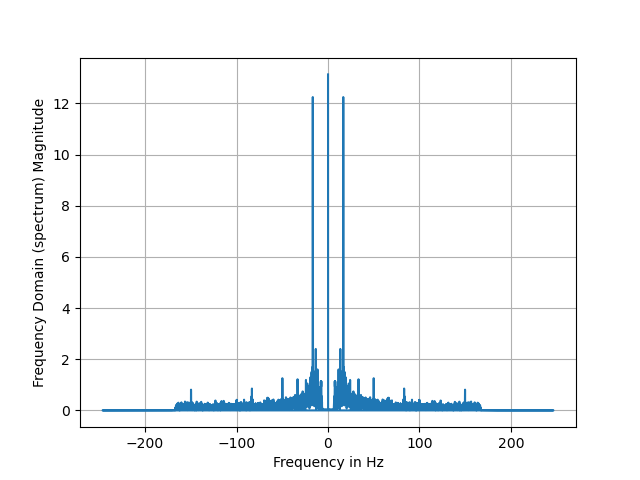
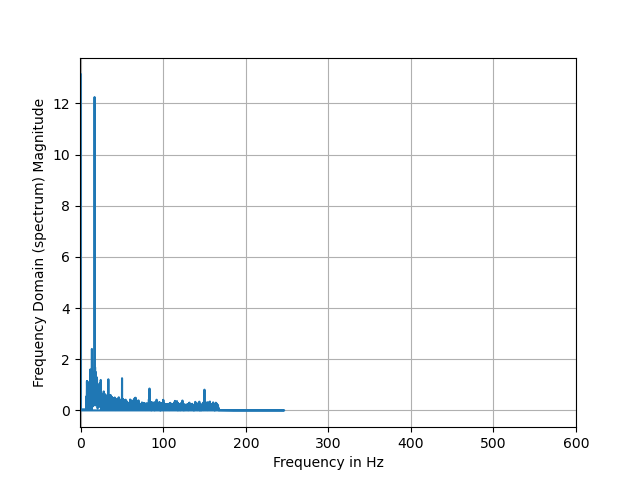
ProgramMaudibuat

diff --git a/FunctionOnlyone.py b/FunctionOnlyone.py
@@ -292,7 +292,7 @@ def plotData20(data1, data2, time, j, name, ke):
 j = []
 k = []
 
-def plotData2(data1, data2, time, name, ke):
+def plotData2ADC(data1, data2, time, name, ke, show=False, save=False):
     saveto = str("./image/"+name+ke+".png")
     name1 = "Hasil akusisi " + name + " percobaan ke-" + ke
     o = [0, len(data1)/3, (len(data1)*2)/3, len(data1)]
@@ -319,8 +319,10 @@ def plotData2(data1, data2, time, name, ke):
     plt.grid()
     plt.xlabel("Waktu (s)")
     plt.xticks(o1, oi)
-    plt.savefig(saveto)
-    plt.show()
+    if save == True:
+        plt.savefig(saveto)
+    if show ==True:
+        plt.show()
     plt.close
     j.append(freq)
     k.append(freq2)
@@ -390,7 +392,6 @@ def plotData3(data1, data2, data3, time, name, ke):
     plt.savefig(saveto)
     plt.show()
     plt.close
-
 
 def plotFigure2(a, b, c,d,e,f,FullA, FullB, time, ke, name):
     name = "./data/" + name +  ke + ".png"
@@ -476,11 +477,6 @@ def plotFigure(self, a, b, c,d,e,f,FullA, FullB, time):
     axs[2,1].plot(f, 'tab:blue')
     axs[3,0].plot(FullA)
     axs[4,0].plot(FullB)
-
-
-
-
-
 def accusition(self, time):
     a = []
     print("mengambil data dalam 5 detik...")
@@ -580,7 +576,7 @@ def RMS(a, ws):
     return(rms)
 
 def bandpass_firwin(ntaps, lowcut, highcut, fs, window='hamming'):
-    nyq = 0.5 * fs
+    nyq =  0.5 * fs
     taps = firwin(ntaps, [lowcut, highcut], nyq=nyq, pass_zero=False,
                   window=window)
     return taps
@@ -608,32 +604,40 @@ def showResponFilter(taps, lowcut, highcut,fs):
     plt.show()
     plt.close()
 
-def signalProcessingButter (signal, t, lowcut,highcut,ws, NilaiRMS, order):
+def signalProcessingFirwin (signal, t, lowcut,highcut,ws, NilaiRMS = 500, process = False , show=False, save=False, RMS = True):
     fs = len(signal)/t
-    signal = bandpass_firwin_filter(data = signal, ntaps=1200, lowcut=lowcut, highcut=highcut,fs= int(len(signal)/t))
-    # print(signal)
-    print("filtering..")
+    if process == True :
+        print("filtering..")
+    signal = bandpass_firwin_filter(data = signal, ntaps=1300, lowcut=lowcut, highcut=highcut,fs= int(len(signal)/t))
+    if process == True : 
+        print("Recrificationing...")
     signal = recrification(signal)
-    print("Recrificationing...")
+    if process == True :
+        print("Moving avareging...")
     signal = movingAvarage(signal, ws)
-    print("Moving avareging...")
-    signal = RMS(signal, NilaiRMS)
-    print("Processing RMS...")
+    if RMS == True:
+        if process == True :
+            print("Processing RMS...")
+        signal = RMS(signal, NilaiRMS)
     return signal
 
-def fastFourierTransform(signal, time, name="TEST"):
+def fastFourierTransform(signal, time, name="TEST", plot=True, save=True):
     fs = len(signal)/time
     Signal = fftpack.fft(signal)
     freqs = fftpack.fftfreq(len(signal))*fs
-    fig, ax = plt.subplots()
-    plt.plot(freqs, abs(Signal))
-    plt.xlabel('Frequency in Hz')
-    plt.ylabel('Frequency Domain (spectrum) Magnitude')
-    plt.grid(True)
-    n = str("./image/"+ str(name) +"FFT")
-    plt.savefig(n)
-    plt.show()
-    plt.close()
+    if plot == True:
+        fig, ax = plt.subplots()
+        plt.plot(freqs, abs(Signal))
+        plt.xlabel('Frequency in Hz')
+        plt.xlim(-1, 520)
+        plt.ylabel('Frequency Domain (spectrum) Magnitude')
+        plt.grid(True)
+        n = str("./image/"+ str(name) +"FFT")
+        plt.savefig(n)
+        if save == True:
+            plt.show()
+        plt.close()
+    return Signal, freqs
 
     
 def welchFunction(data, time):
@@ -646,6 +650,121 @@ def welchFunction(data, time):
     plt.show()
     plt.close()
 
+def ReadFile(dataName, ADC = True):
+    path = str("./data/" + dataName + ".txt")
+    with open(path) as f:
+        content =f.readlines()
+    i = 0
+    c = []
+    d = []
+    while i < len(content):
+        a,b = content[i].split(',')
+        if ADC == True:
+            a = (5*float(a))/1024
+            b = (5*float(b.strip()))/1024
+        if ADC == False:
+            a = float(a)
+            b = float(b.strip())
+        c.append(a)
+        d.append(b)
+        i = i + 1
+    return c,d 
 
+def GetInfo(name1, j, time, name="TEST", ke=""):
+    Ap = []
+    Bp = []
+    At = []
+    Bt = []
+    Ai = []
+    Bi = []
+    Pa = []
+    Pb = []
+    k = 1
+    for i in range(j):
+        name = str(name1 + str(k))
+        print("Processing Data.. ", name)
+        a,b = ReadFile(name)
+        a = bandpass_firwin_filter(a, 1400, 20, 500, len(a)/time)
+        b = bandpass_firwin_filter(b, 1400, 20, 500, len(b)/time)
+        peak1 = max(ai)
+        peak2 = max(bi)
+        peakt1 = (ai.index(max(ai))/len(ai))*time
+        peakt2 = (bi.index(max(bi))/len(bi))*time
+        ave1 = ave(ai)
+        ave2 = ave(bi)
+        P1 = sum(ai[int(len(ai)/3):int(len(ai)*2/3)])
+        P2 = sum(bi[int(len(bi)/3):int(len(bi)*2/3)])
+        Pa.append(P1)
+        Pb.append(P2)
+        Ap.append(peak1)
+        Bp.append(peak2)
+        At.append(peakt1)
+        Bt.append(peakt2)
+        Ai.append(ave1)
+        Bi.append(ave2)
+        k = k + 1 
+        i = i + 1
+    createFile2(Ai,Bi, str("RataRataData" + str(name)), ke)
+    createFile2(Ap,Bp, str("PeakValueData" + str(name)), ke)
+    createFile2(At, Bt, str("WaktuPeakData" + str(name)), ke)
+    createFile2(Pa, Pb, str("LuasData"+ str(name)), ke)
+    print("Rata Rata data A : ", Ai)
+    print("Rata Rata data B : ", Bi)
+    print("Peak Data A : ", Ap)
+    print("Peak Data B : ", Bp)
+    print("Time Peak Data A : ", At)
+    print("Time Peak Data B : ", Bt)
+    print("Luas Data A : ", Pa)
+    print("Luas Data B : ", Pb)
 
+def plotData2LAST(data1, data2, time, name="TestLAST", ke="", show=False, save=False):
+    saveto = str("./image/"+name+ke+".png")
+    o = [0, len(data1)/3, (len(data1)*2)/3, len(data1)]
+    o1 = [0, len(data2)/3, (len(data2)*2)/3, len(data2)]
+    oi =["0", str(time/3), str((time*2)/3), str(time)]
+    peak = []
+    ave1 = FunctionOnlyone.ave(data1)
+    ave2 = FunctionOnlyone.ave(data2)
+    i = 0
+    P = []
+    while i<len(data1):
+        P.append(i)
+        i=i+1
+    ket1 = str("Waktu(s)\nRata-rata : " + str(ave1) )
+    ket2 = str("Waktu(s)\nRata-rata : " + str(ave2) )
+    grid = plt.GridSpec(2, 1, wspace=0.2, hspace=0.7, left=0.09, bottom=0.12, right=0.95, top=0.88)
+    plt.figure(figsize=(18,6))
+    plt.subplot(grid[0,0])
+    plt.plot(data1)
+    P = np.array(P)
+    plt.fill_between(P[int(len(P)/3):int(len(P)*2/3)], data1[int(len(P)/3):int(len(P)*2/3)], 0,color='aqua')
+    plt.plot(data1.index(max(data1[int(len(data1)/3):int(len(data1)*2/3)])), max(data1[int(len(data1)/3):int(len(data1)*2/3)]), 'x', color='red', linewidth=2)
+    plt.title("Tangan Kanan")
+    plt.ylabel("Volt")
+    plt.grid()
+    plt.ylim(0,0.0025)
+    plt.xlabel(ket1)
+    plt.xticks(o, oi)
+    plt.subplot(grid[1,0])
+    plt.plot(data2)
+    plt.plot(data2.index(max(data2[int(len(data2)/3):int(len(data2)*2/3)])), max(data2[int(len(data2)/3):int(len(data2)*2/3)]), 'x', color='red', linewidth=2)
+    plt.fill_between(P[int(len(P)/3):int(len(P)*2/3)], data2[int(len(P)/3):int(len(P)*2/3)], 0,color='aqua')
+    plt.title("Tangan Kiri")
+    plt.ylabel("Volt")
+    plt.ylim(0,0.0025)
+    plt.xlabel(ket2)
+    plt.grid()
+    plt.xticks(o1, oi)
+    if save == True:
+        plt.savefig(saveto)
+    if show == True:
+        plt.show()
+    plt.close
+    return (saveto)
 
+def programPPT23Juli2020():
+    """
+    Program untuk memproduksi kembali data data setelah dilakukan perubahan 
+    
+
+    """

diff --git a/ProcessingSignal.py b/ProcessingSignal.py
@@ -96,7 +96,7 @@ def plotData2(data1, data2, time, name, ke):
     plt.xlabel(ket2)
     plt.grid()
     plt.xticks(o1, oi)
-    # plt.savefig(saveto)
+    plt.savefig(saveto)
     plt.show()
     # plt.close
     return (saveto)
@@ -134,19 +134,16 @@ def signalProcessing(signal,t, lowcut, highcut):
 
 a,b = ReadFile("ilham20keC1")
 print("Processing..")
-a = FunctionOnlyone.bandpass_firwin_filter(a,1200,20,500,len(a)/15)
-b = FunctionOnlyone.bandpass_firwin_filter(b,1200,20,500,len(a)/15)
-FunctionOnlyone.fastFourierTransform(a[0:int(len(a)/3)],15, name="Relax1")
-FunctionOnlyone.fastFourierTransform(a[int(len(a)/3):int(len(a)*2/3)],15,name="Gerak1")
-FunctionOnlyone.fastFourierTransform(a[int(len(a)*2/3):-1], 15, name="RelaxAkhir1")
-a = FunctionOnlyone.fastFourierTransform(a,15)
-b =FunctionOnlyone.fastFourierTransform(b,15)
+ap = a[int(len(a)/2):int(len(a)*2/3)]
+bp = b[int(len(b)/2):int(len(b)*2/3)]
+# a = FunctionOnlyone.bandpass_firwin_filter(a,1200,20,500,len(a)/15)
+# b = FunctionOnlyone.bandpass_firwin_filter(b,1200,20,500,len(b)/15)
+# a = FunctionOnlyone.fastFourierTransform(a,15,name="FFTilhamke20C1A")
+# b = FunctionOnlyone.fastFourierTransform(b,15,name="FFTilhamke20C1B")
 # a = FunctionOnlyone.welchFunction(a, 15)
 # b = FunctionOnlyone.welchFunction(a, 15)
-# a = FunctionOnlyone.signalProcessingButter(a,15,20,500,500,500,5)
-# b = FunctionOnlyone.signalProcessingButter(b,15,20,500,500,500,5)
-plotData2(a,b,15,"Coba","15")
-
+a = FunctionOnlyone.signalProcessingButter(a,15,20,500,500,500,5)
+b = FunctionOnlyone.signalProcessingButter(b,15,20,500,500,500,5)
 
 # 
 # lowcut = 10

diff --git a/FilterResponse.py b/FilterResponse.py
@@ -34,7 +34,7 @@ if __name__ == "__main__":
     lowcut = 20
     highcut = 500
 
-    ntaps = 1200
+    ntaps = 1500
     taps_hamming = bandpass_firwin(ntaps, lowcut, highcut, fs=fs)
     taps_kaiser16 = bandpass_kaiser(ntaps, lowcut, highcut, fs=fs, width=1.6)
     taps_kaiser10 = bandpass_kaiser(ntaps, lowcut, highcut, fs=fs, width=1.0)
